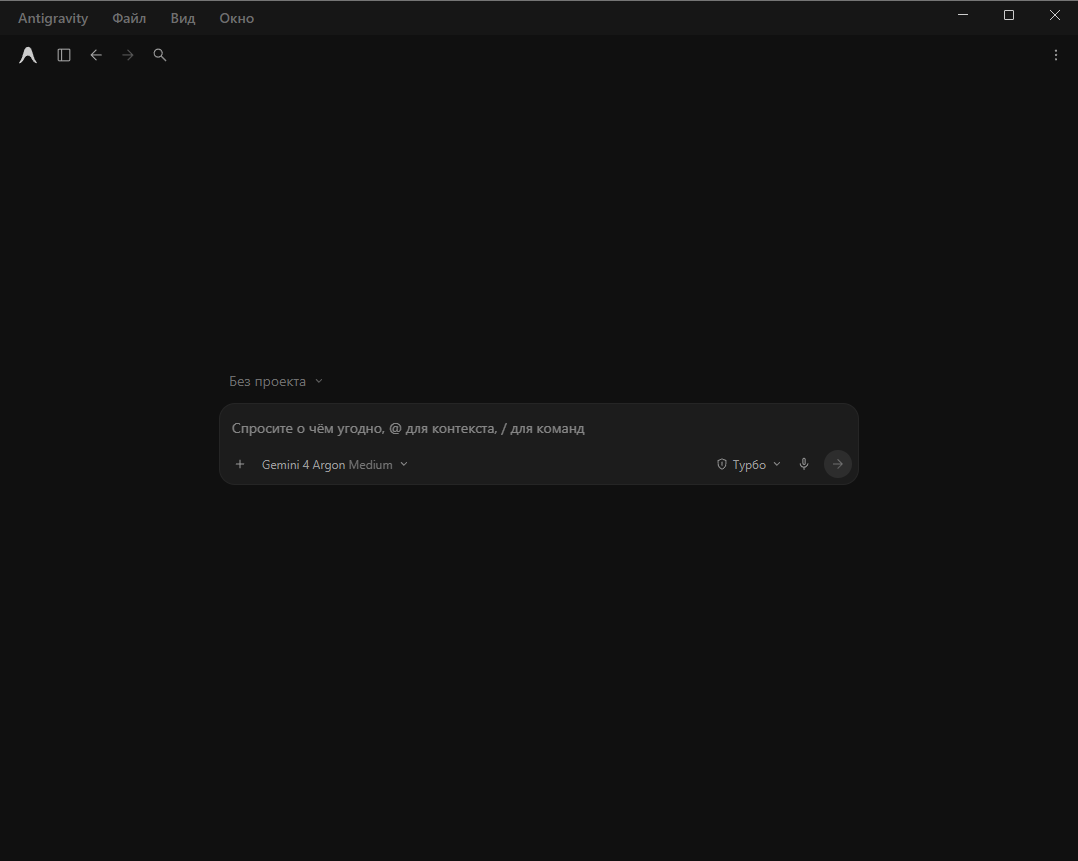
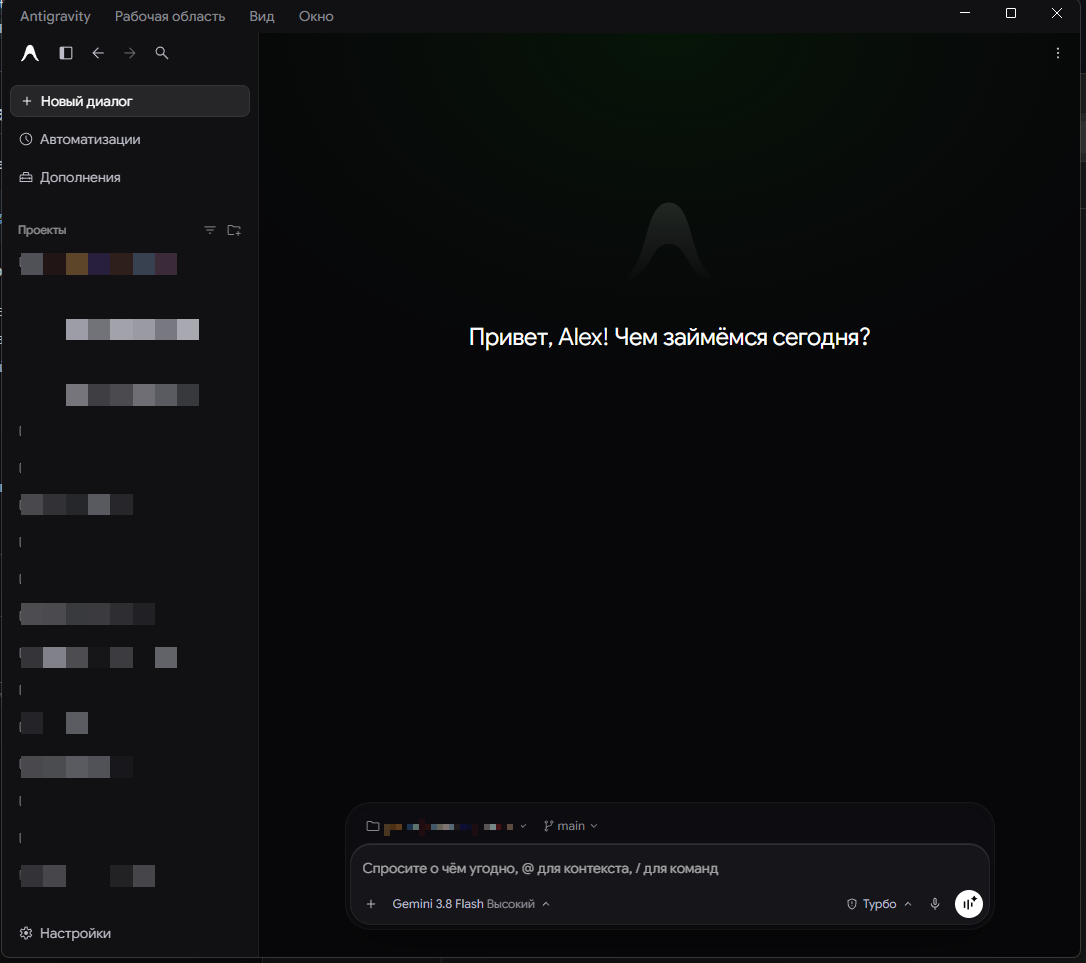
docs: remove redundant changelog block and update screenshots for 2.29.0

diff --git a/README.md b/README.md
@@ -24,23 +24,6 @@
 
 ---
 
-## Что нового (под Antigravity 2.29.0)
-
-- Русификатор собран под **Antigravity 2.29.0**.
-- **Боковые вопросы (Side questions):** параллельные вопросы агенту без прерывания главного чата, остановка и превращение в отдельный диалог («Превратить в диалог»).
-- **Разделение панелей и новое меню вкладок:** независимые боковая панель («Side Panel») и нижняя панель терминала («Terminal Panel»); пункт «Закрыть вкладки слева», закрепление и открепление вкладок.
-- **Автоматизации и планировщик:** создание задач по расписанию, выбор периодичности (каждый день, час, неделя, будни), просмотр истории и статусов запусков; русифицированы списки («Пока нет автоматизаций», «Пока нет запланированных задач», «Нет по запросу») и кнопки создания.
-- **Расход и лимиты моделей:** панель расхода («Расход», «Недельный лимит», «Дневной лимит», «% осталось», «История расхода», «Получить кредиты AI»).
-- **Статусы работы агента:** «Работаю», «Работал», «Сжатие контекста», «Выполнено: <действие>», «· Код выхода <код>», «Ждёт вашего подтверждения».
-- **Встроенный браузер нового поколения (WebContentsView):** подсказки адресной строки, предупреждения безопасности SSL-сертификатов, шаги браузера и очистка истории.
-- **Голосовой режим и опросники:** интерфейс голосового диалога («Слушаю. Спрашивайте что угодно.»), сворачивание/разворачивание опросников.
-- **Темы оформления:** поддержка тем «Классическая тёмная» (Legacy Dark) и «Классическая светлая» (Legacy Light) наряду с новой темой по умолчанию.
-- Переведены меню ⋮ диалога (закрепить, архивировать, разделить окно, копировать), панель обзора и её разделы, вкладка плана агента и её меню.
-- Вопросы агента: «Задаёт 1 вопрос», «3 вопроса», «5 вопросов» — с правильными окончаниями; «Работал 3 мин», «Ожидание ответа пользователя».
-- Выбор модели: уровни «Низкий / Средний / Высокий», лимиты, «Сброс через 1 д 21 ч», подсказки к квотам.
-- Настройки встроенного браузера и субагента браузера, новые горячие клавиши, рабочие деревья.
-- **Цветные упоминания** в поле ввода: файлы — синие, диалоги — фиолетовые, правила — жёлтые, команды — зелёные, браузер — голубой. В тех же цветах пункты меню «Добавить контекст».
-
 > [!IMPORTANT]
 > **Поддерживаемые версии Antigravity:** `2.29.0`, `2.28.0`, `2.26.0`, `2.25.0`.
 > Установщик автоматически определяет версию установленного Antigravity и выбирает подходящий набор файлов. В старых наборах доступен перевод возможностей того времени (например, цветные упоминания — начиная с 2.28.0).
